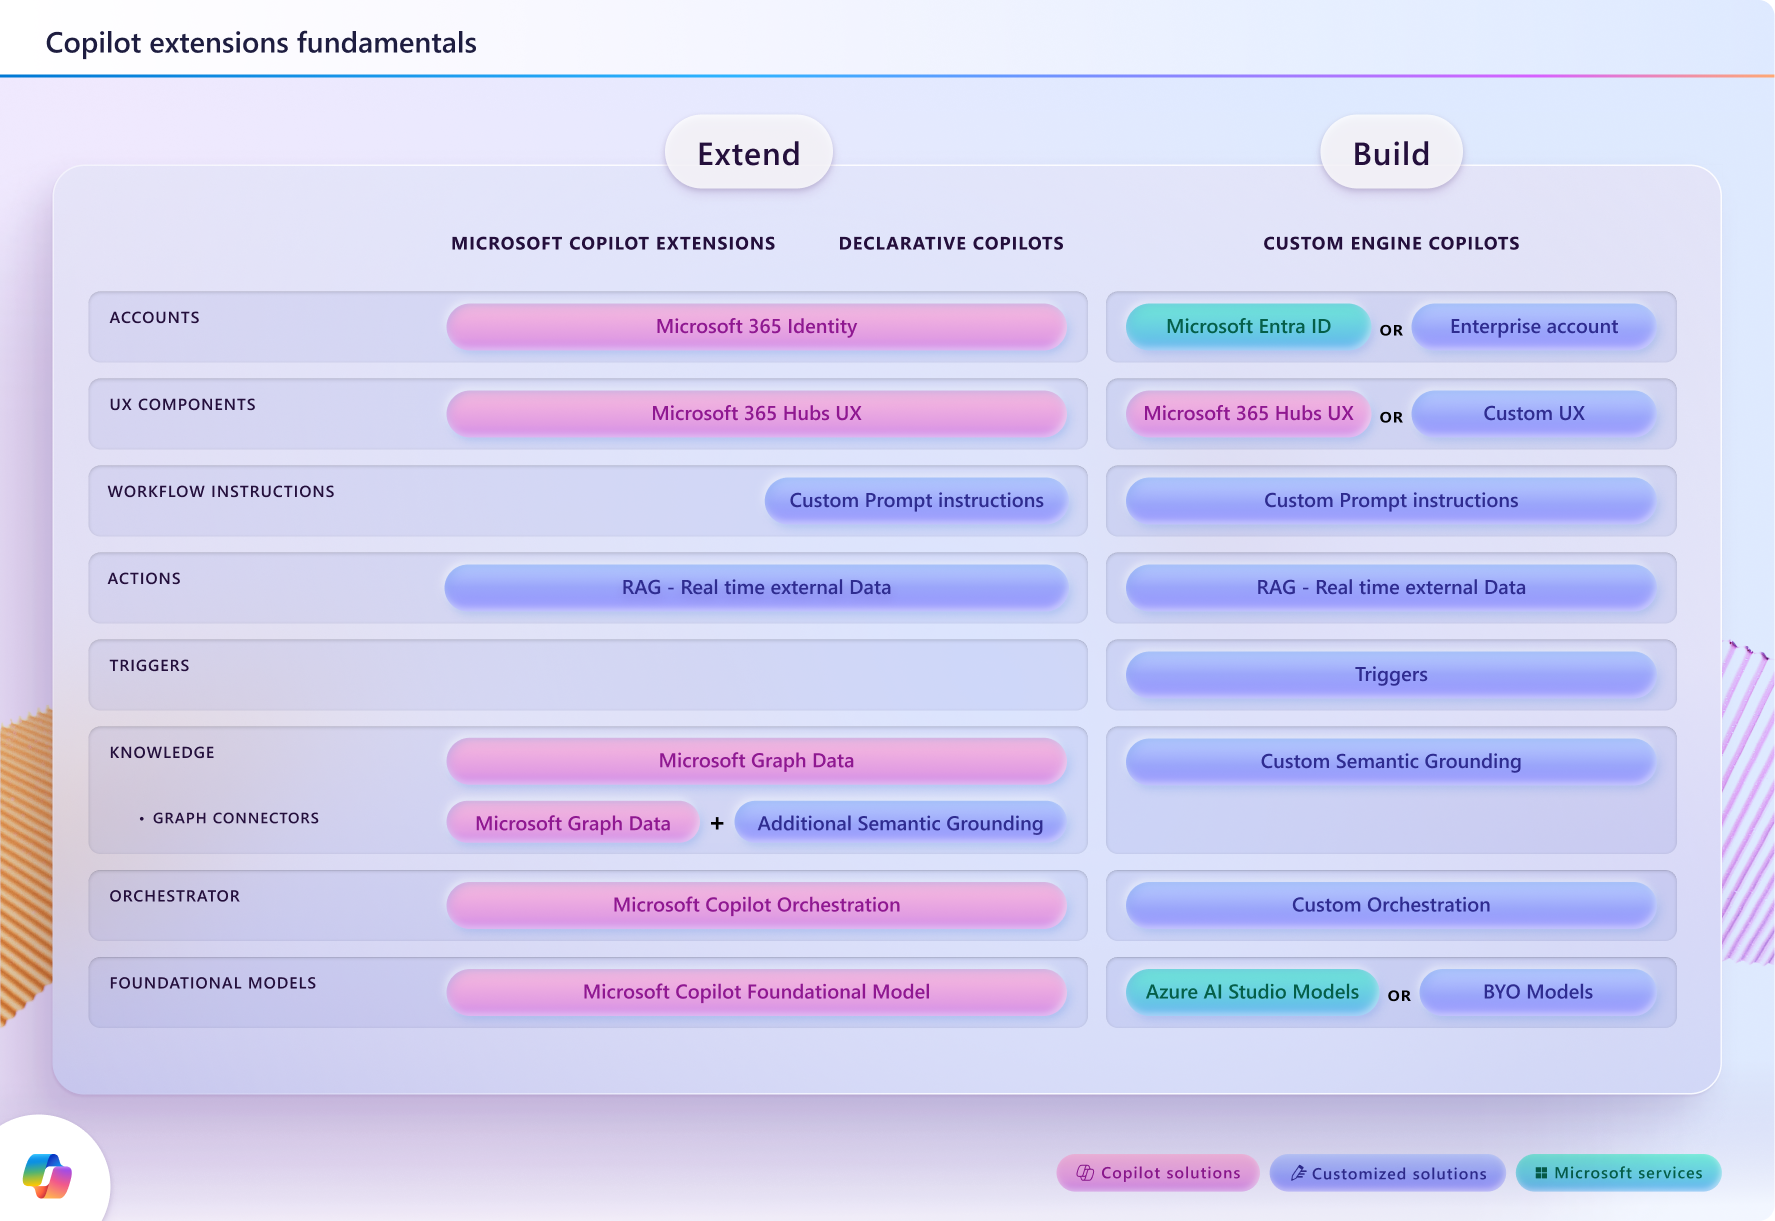
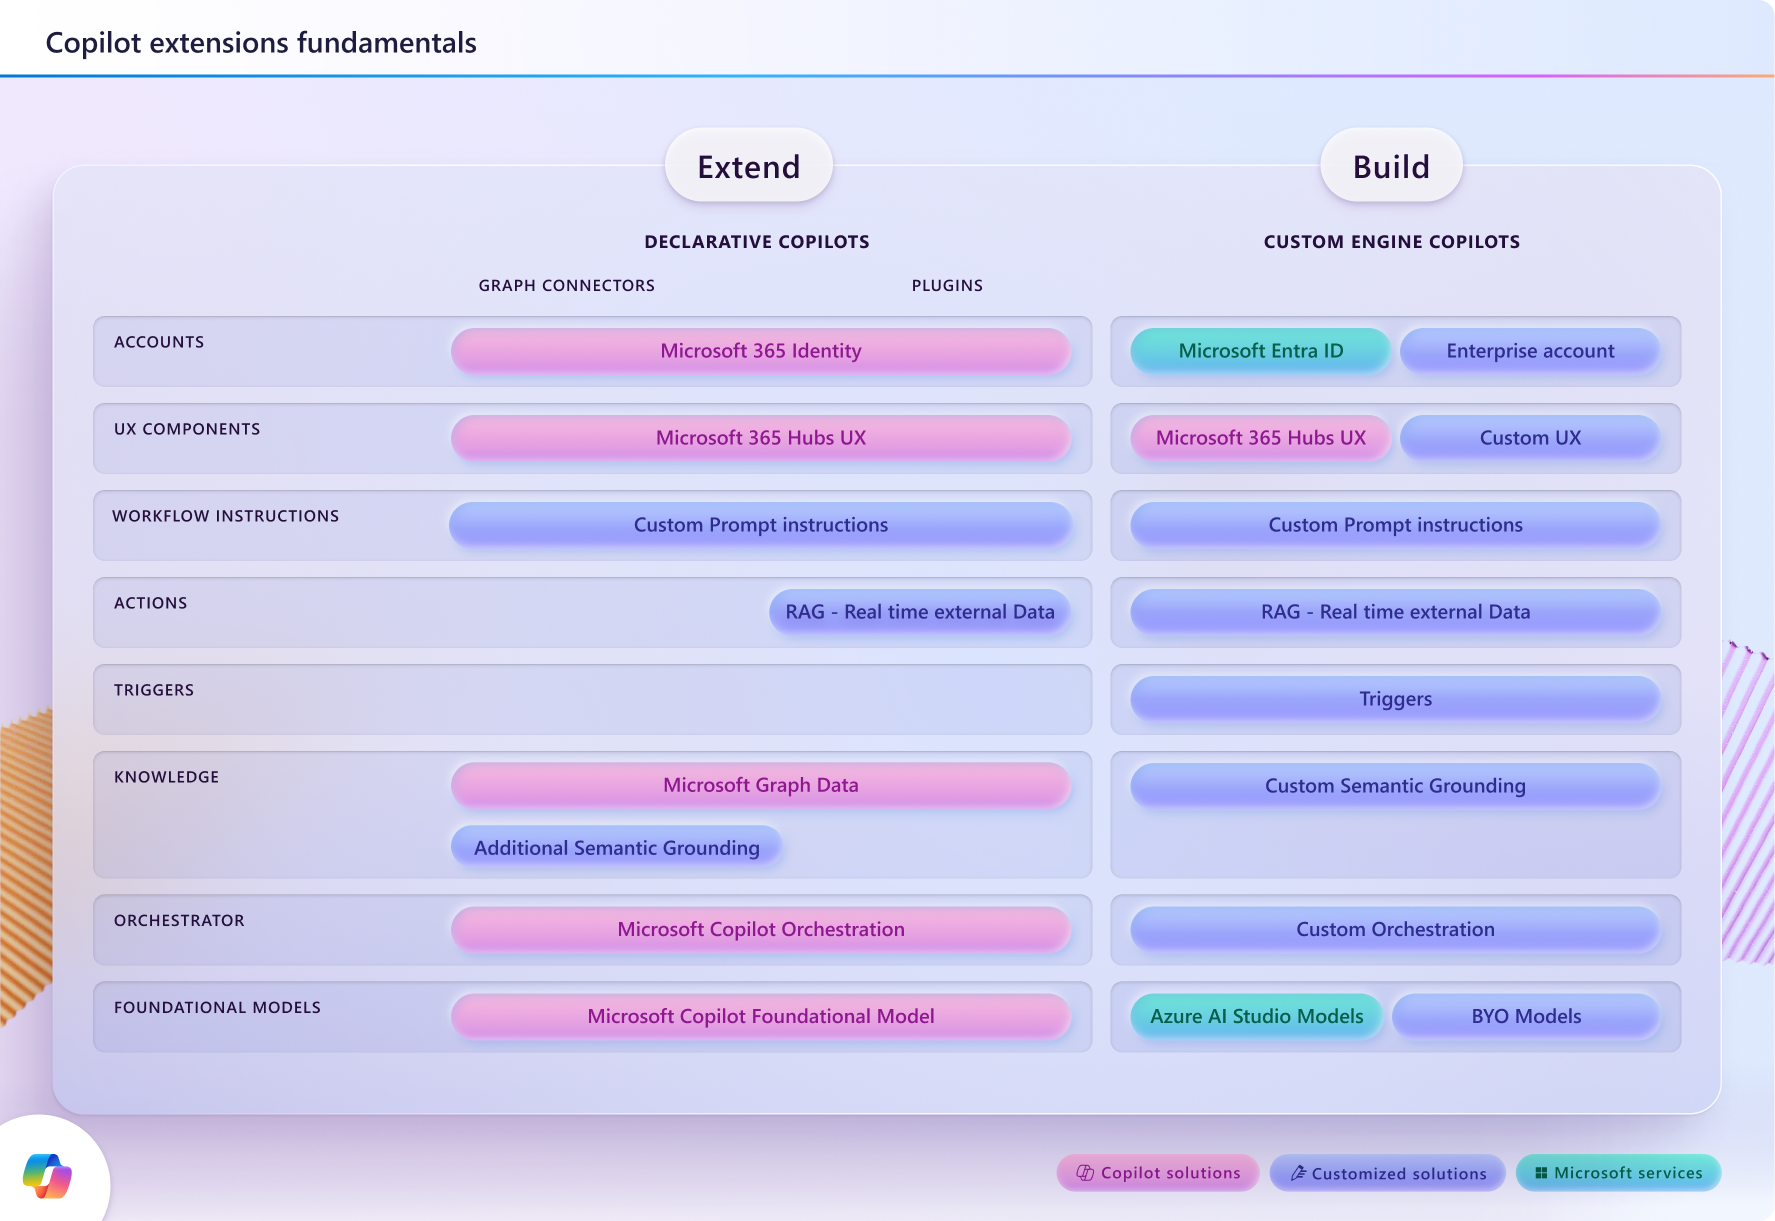
Edit extensions/cec comparison diagram and text

diff --git a/docs/build-or-extend.md b/docs/build-or-extend.md
@@ -102,13 +102,13 @@ With Azure AI services, you can craft a custom AI chatbot for **Teams** and **Mi
 
 #### How does it differ from Copilot extensions for Microsoft 365?
 
-In the context of building copilots for Microsoft 365, there are several options available. This diagram provides a comparison between the [Copilot extensibility options](decision-guide.md) (Graph connectors, plugins, and declarative Copilot) and the custom engine Copilot:
+In the context of building copilots for Microsoft 365, there are several options available. This diagram provides a comparison between the [Copilot extensibility options](decision-guide.md) (Graph connectors, plugins, as well as declarative copilots, which can connect to Graph connectors and plugins) and the custom engine copilot:
 
-:::image type="content" source="assets/images/copilot-ext-vs-cec.png" border="true" alt-text="This diagram compares options between extend or build for M365" lightbox="assets/images/copilot-ext-vs-cec.png":::
+:::image type="content" source="assets/images/copilot-ext-vs-cec.png" border="true" alt-text="This diagram compares options between Copilot extensions and custom engine copilot for M365" lightbox="assets/images/copilot-ext-vs-cec.png":::
 
 The custom engine Copilot operates on a BYO (Bring Your Own) model. So you'll use your preferred LLM and orchestrator instead of leveraging Microsoft Copilot services.
 
-Building with **Teams AI Library** is an excellent choice if:
+Building custom engine copilot with **Teams AI Library** is an excellent choice if:
 
 - You want to choose models and orchestration
 - You have prior experience in building Teams bots or are familiar with Teams bot development
